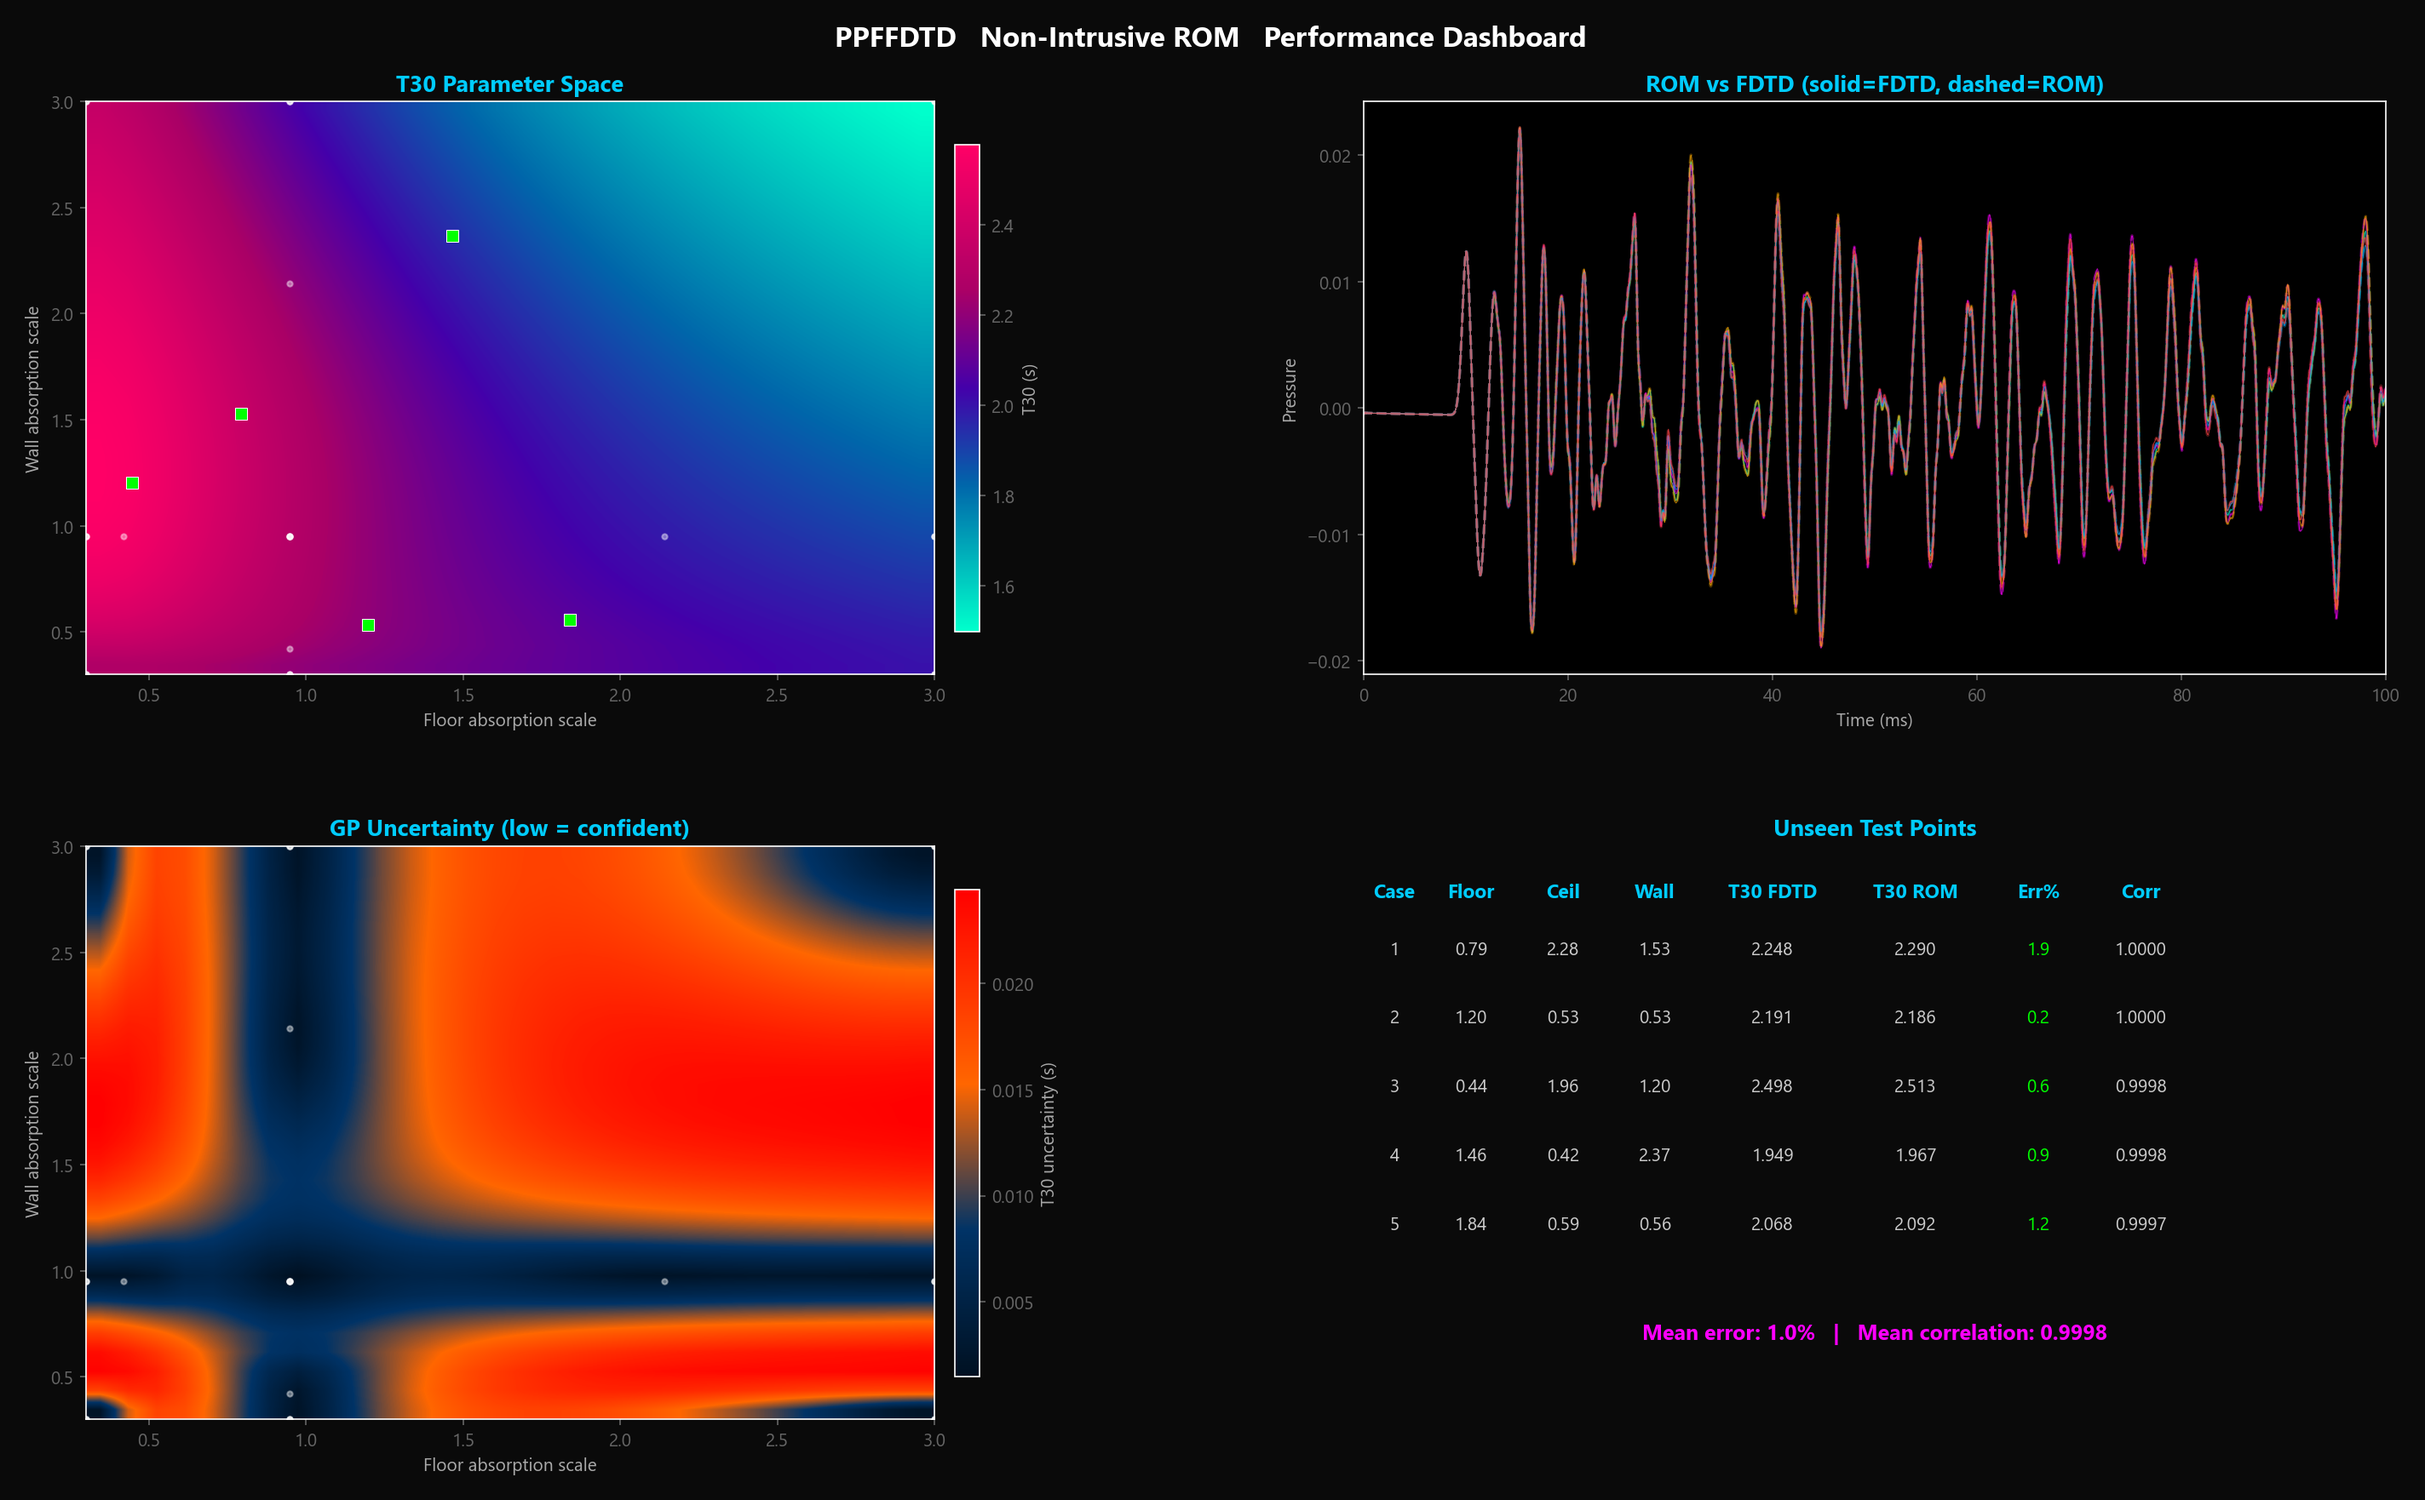
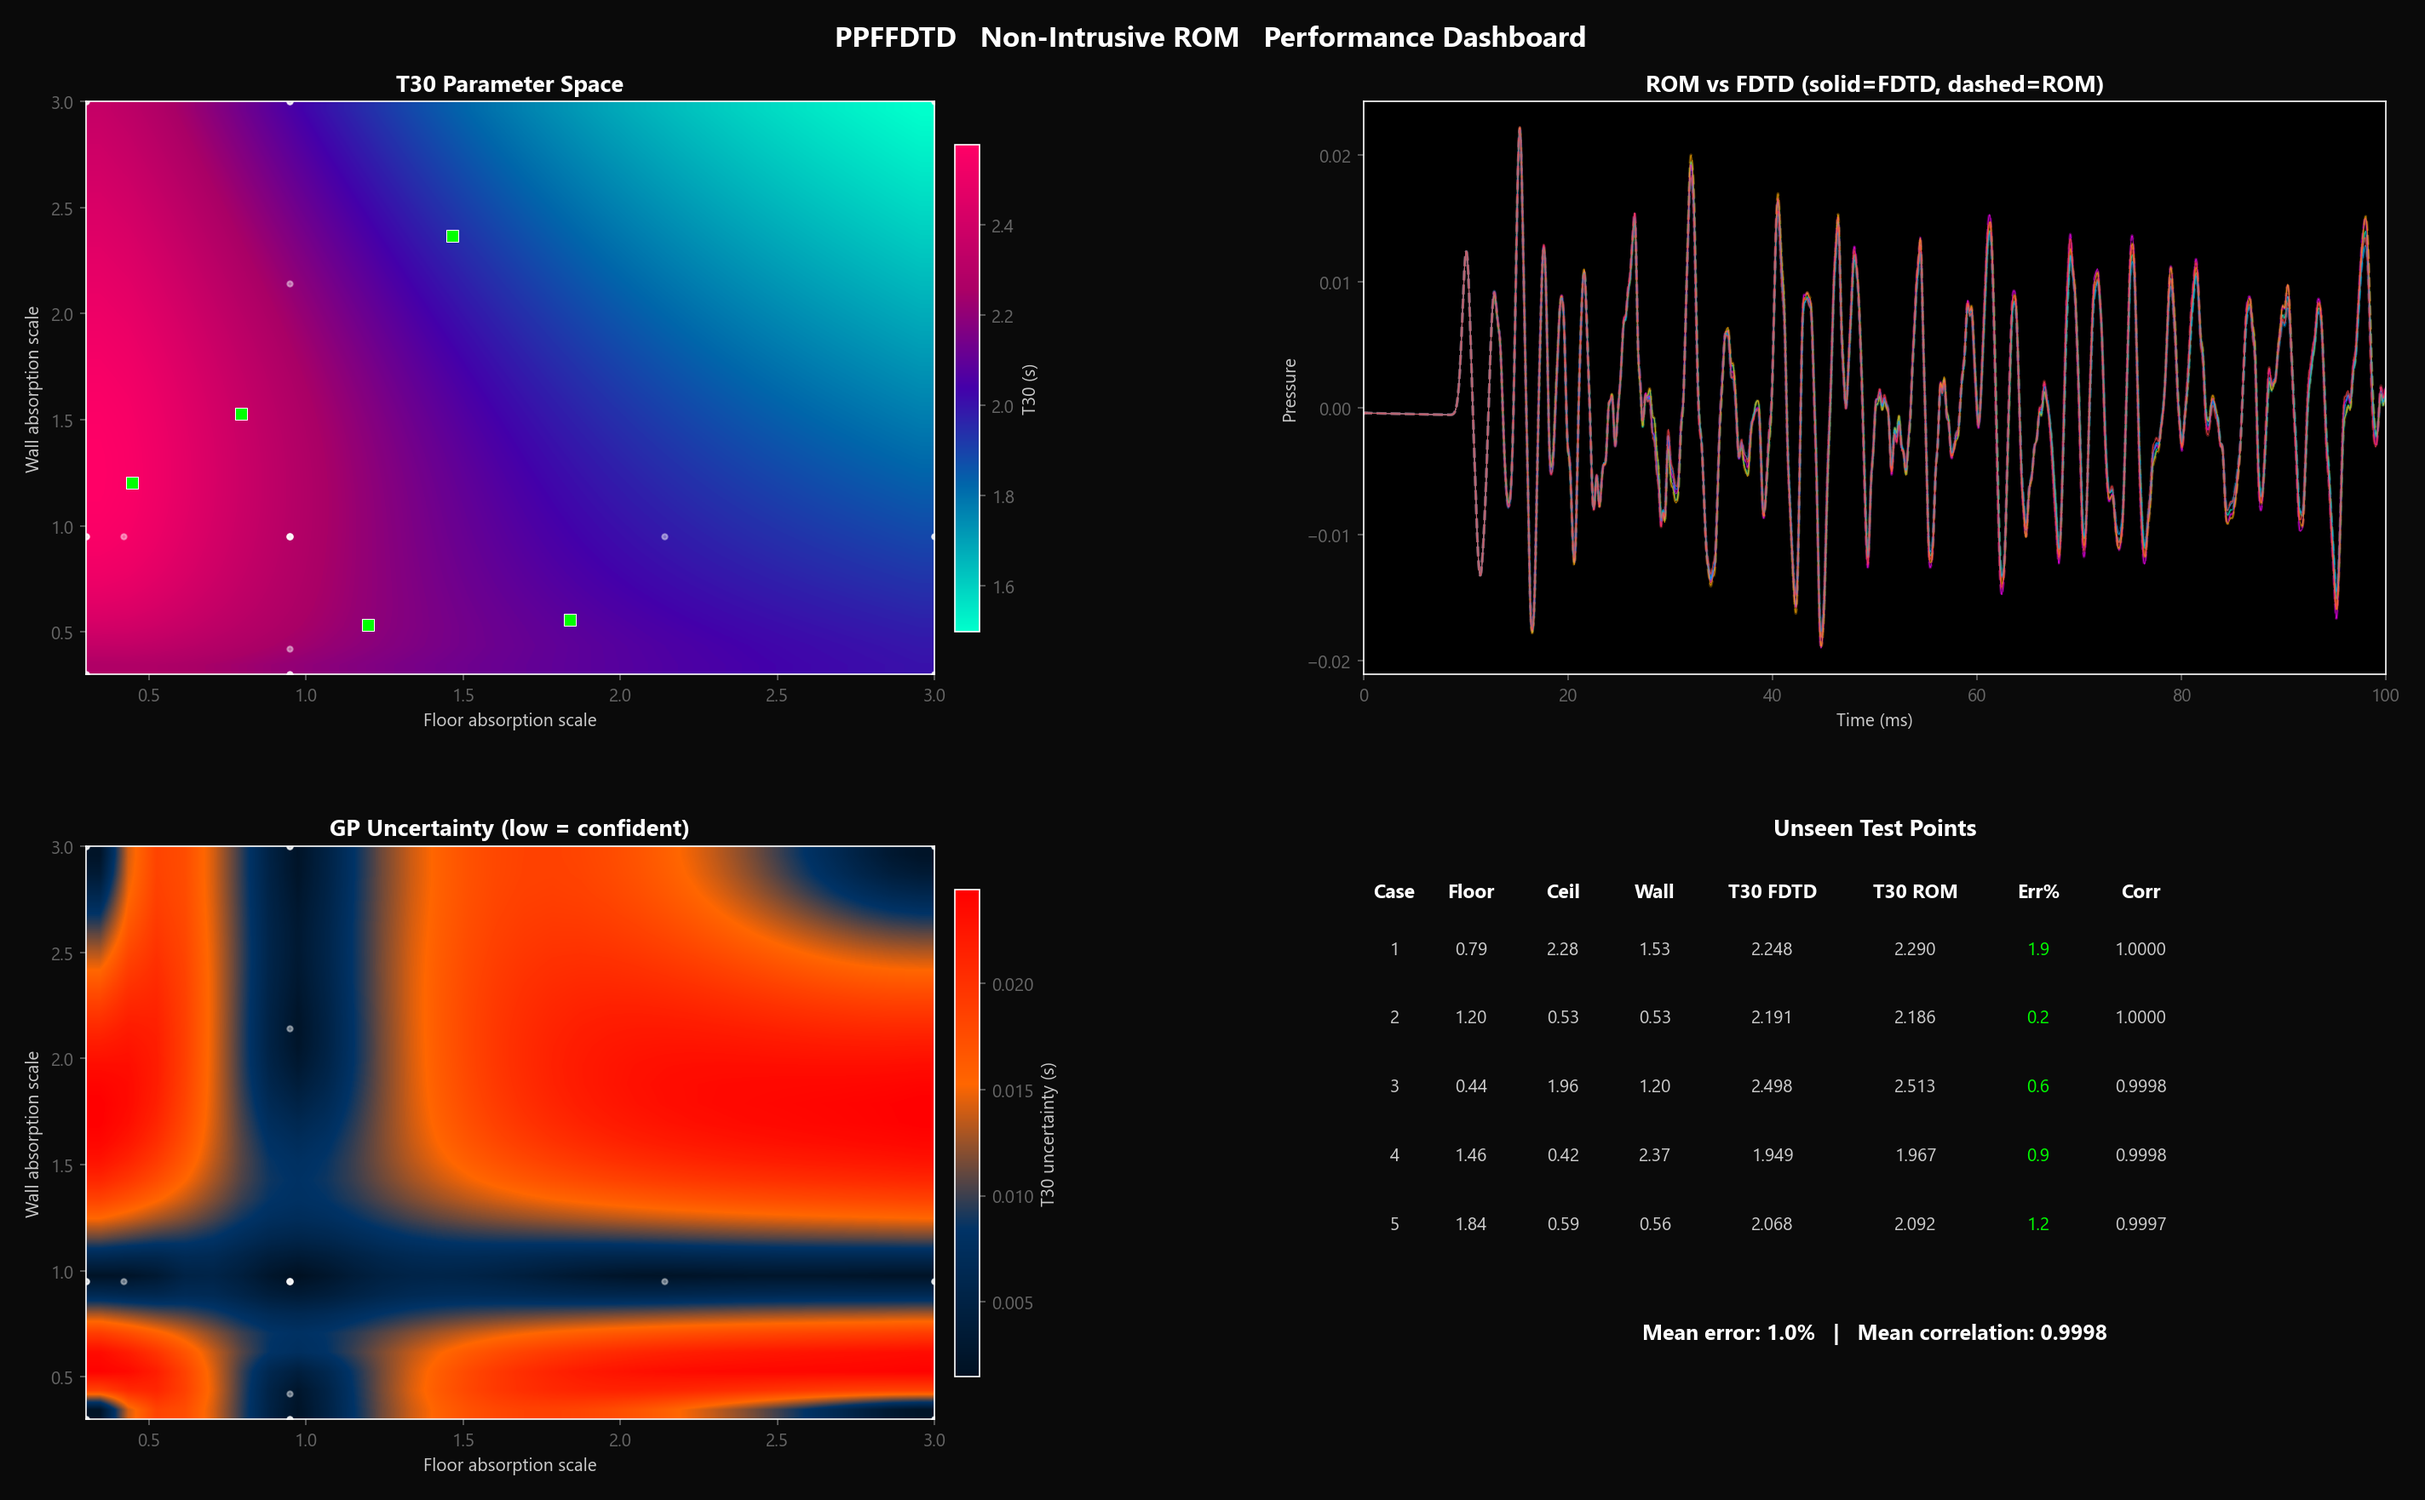
Dashboard: white text, clean labels

diff --git a/visualize_rom.py b/visualize_rom.py
@@ -63,7 +63,7 @@ def plot_rom_dashboard(rom, test_results, save_path='vis/rom_dashboard.png'):
     im1 = ax1.imshow(t30_grid.T, origin='lower', cmap=t30_cmap, aspect='auto',
                      extent=[0.3, 3.0, 0.3, 3.0], interpolation='bilinear')
     cb1 = plt.colorbar(im1, ax=ax1, shrink=0.85, pad=0.02)
-    cb1.set_label('T30 (s)', color='#aaaaaa')
+    cb1.set_label('T30 (s)', color='#cccccc')
     cb1.ax.tick_params(colors='#666666')
 
     # Mark training points
@@ -75,9 +75,9 @@ def plot_rom_dashboard(rom, test_results, save_path='vis/rom_dashboard.png'):
         ax1.plot(r['scales'][0], r['scales'][2], 's', color='#00FF00',
                  markersize=7, markeredgecolor='white', markeredgewidth=0.5)
 
-    ax1.set_xlabel('Floor absorption scale', color='#aaaaaa')
-    ax1.set_ylabel('Wall absorption scale', color='#aaaaaa')
-    ax1.set_title('T30 Parameter Space', color='#00CCFF', fontsize=13,
+    ax1.set_xlabel('Floor absorption scale', color='#cccccc')
+    ax1.set_ylabel('Wall absorption scale', color='#cccccc')
+    ax1.set_title('T30 Parameter Space', color='white', fontsize=13,
                   fontweight='bold')
     ax1.tick_params(colors='#666666')
 
@@ -95,9 +95,9 @@ def plot_rom_dashboard(rom, test_results, save_path='vis/rom_dashboard.png'):
         ax2.plot(t_r[:n], r['ir_rom'][:n], color=colors_test[i],
                  alpha=0.3, linewidth=1.5, linestyle='--')
 
-    ax2.set_xlabel('Time (ms)', color='#aaaaaa')
-    ax2.set_ylabel('Pressure', color='#aaaaaa')
-    ax2.set_title('ROM vs FDTD (solid=FDTD, dashed=ROM)', color='#00CCFF',
+    ax2.set_xlabel('Time (ms)', color='#cccccc')
+    ax2.set_ylabel('Pressure', color='#cccccc')
+    ax2.set_title('ROM vs FDTD (solid=FDTD, dashed=ROM)', color='white',
                   fontsize=13, fontweight='bold')
     ax2.tick_params(colors='#666666')
     ax2.set_xlim(0, 100)
@@ -108,15 +108,15 @@ def plot_rom_dashboard(rom, test_results, save_path='vis/rom_dashboard.png'):
     im3 = ax3.imshow(unc_grid.T, origin='lower', cmap=unc_cmap, aspect='auto',
                      extent=[0.3, 3.0, 0.3, 3.0], interpolation='bilinear')
     cb3 = plt.colorbar(im3, ax=ax3, shrink=0.85, pad=0.02)
-    cb3.set_label('T30 uncertainty (s)', color='#aaaaaa')
+    cb3.set_label('T30 uncertainty (s)', color='#cccccc')
     cb3.ax.tick_params(colors='#666666')
 
     for p in rom.training_params:
         ax3.plot(p[0], p[2], 'o', color='white', markersize=3, alpha=0.4)
 
-    ax3.set_xlabel('Floor absorption scale', color='#aaaaaa')
-    ax3.set_ylabel('Wall absorption scale', color='#aaaaaa')
-    ax3.set_title('GP Uncertainty (low = confident)', color='#00CCFF',
+    ax3.set_xlabel('Floor absorption scale', color='#cccccc')
+    ax3.set_ylabel('Wall absorption scale', color='#cccccc')
+    ax3.set_title('GP Uncertainty (low = confident)', color='white',
                   fontsize=13, fontweight='bold')
     ax3.tick_params(colors='#666666')
 
@@ -130,7 +130,7 @@ def plot_rom_dashboard(rom, test_results, save_path='vis/rom_dashboard.png'):
     y = 0.92
     for j, h in enumerate(headers):
         x = sum(col_w[:j]) + col_w[j] / 2
-        ax4.text(x, y, h, color='#00CCFF', fontsize=11, fontweight='bold',
+        ax4.text(x, y, h, color='white', fontsize=11, fontweight='bold',
                  ha='center', va='center', transform=ax4.transAxes)
 
     for i, r in enumerate(test_results):
@@ -159,10 +159,10 @@ def plot_rom_dashboard(rom, test_results, save_path='vis/rom_dashboard.png'):
     mean_err = np.mean([r['err'] for r in test_results])
     mean_corr = np.mean([r['corr'] for r in test_results])
     ax4.text(0.5, y, f'Mean error: {mean_err:.1f}%   |   Mean correlation: {mean_corr:.4f}',
-             color='#FF00FF', fontsize=12, fontweight='bold',
+             color='white', fontsize=12, fontweight='bold',
              ha='center', transform=ax4.transAxes)
 
-    ax4.set_title('Unseen Test Points', color='#00CCFF', fontsize=13,
+    ax4.set_title('Unseen Test Points', color='white', fontsize=13,
                   fontweight='bold')
 
     # Main title
